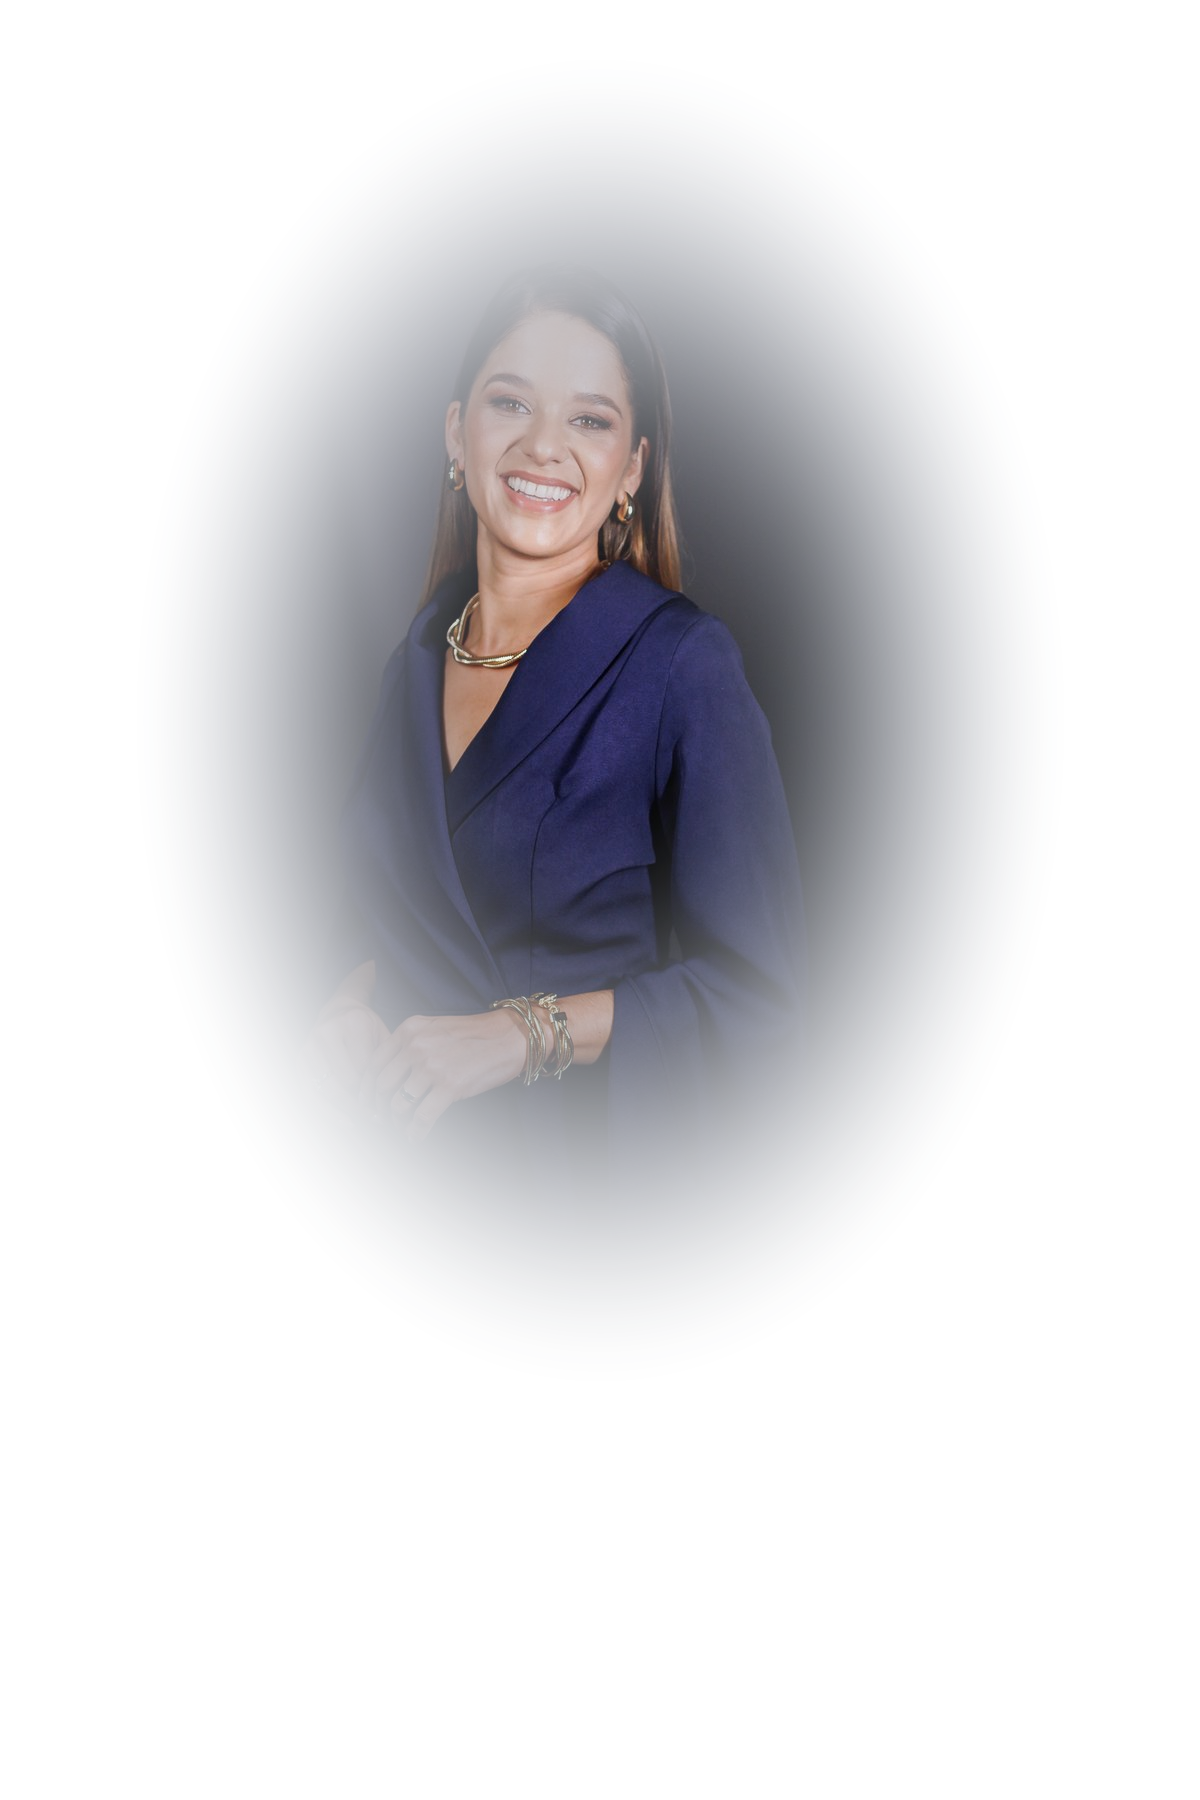
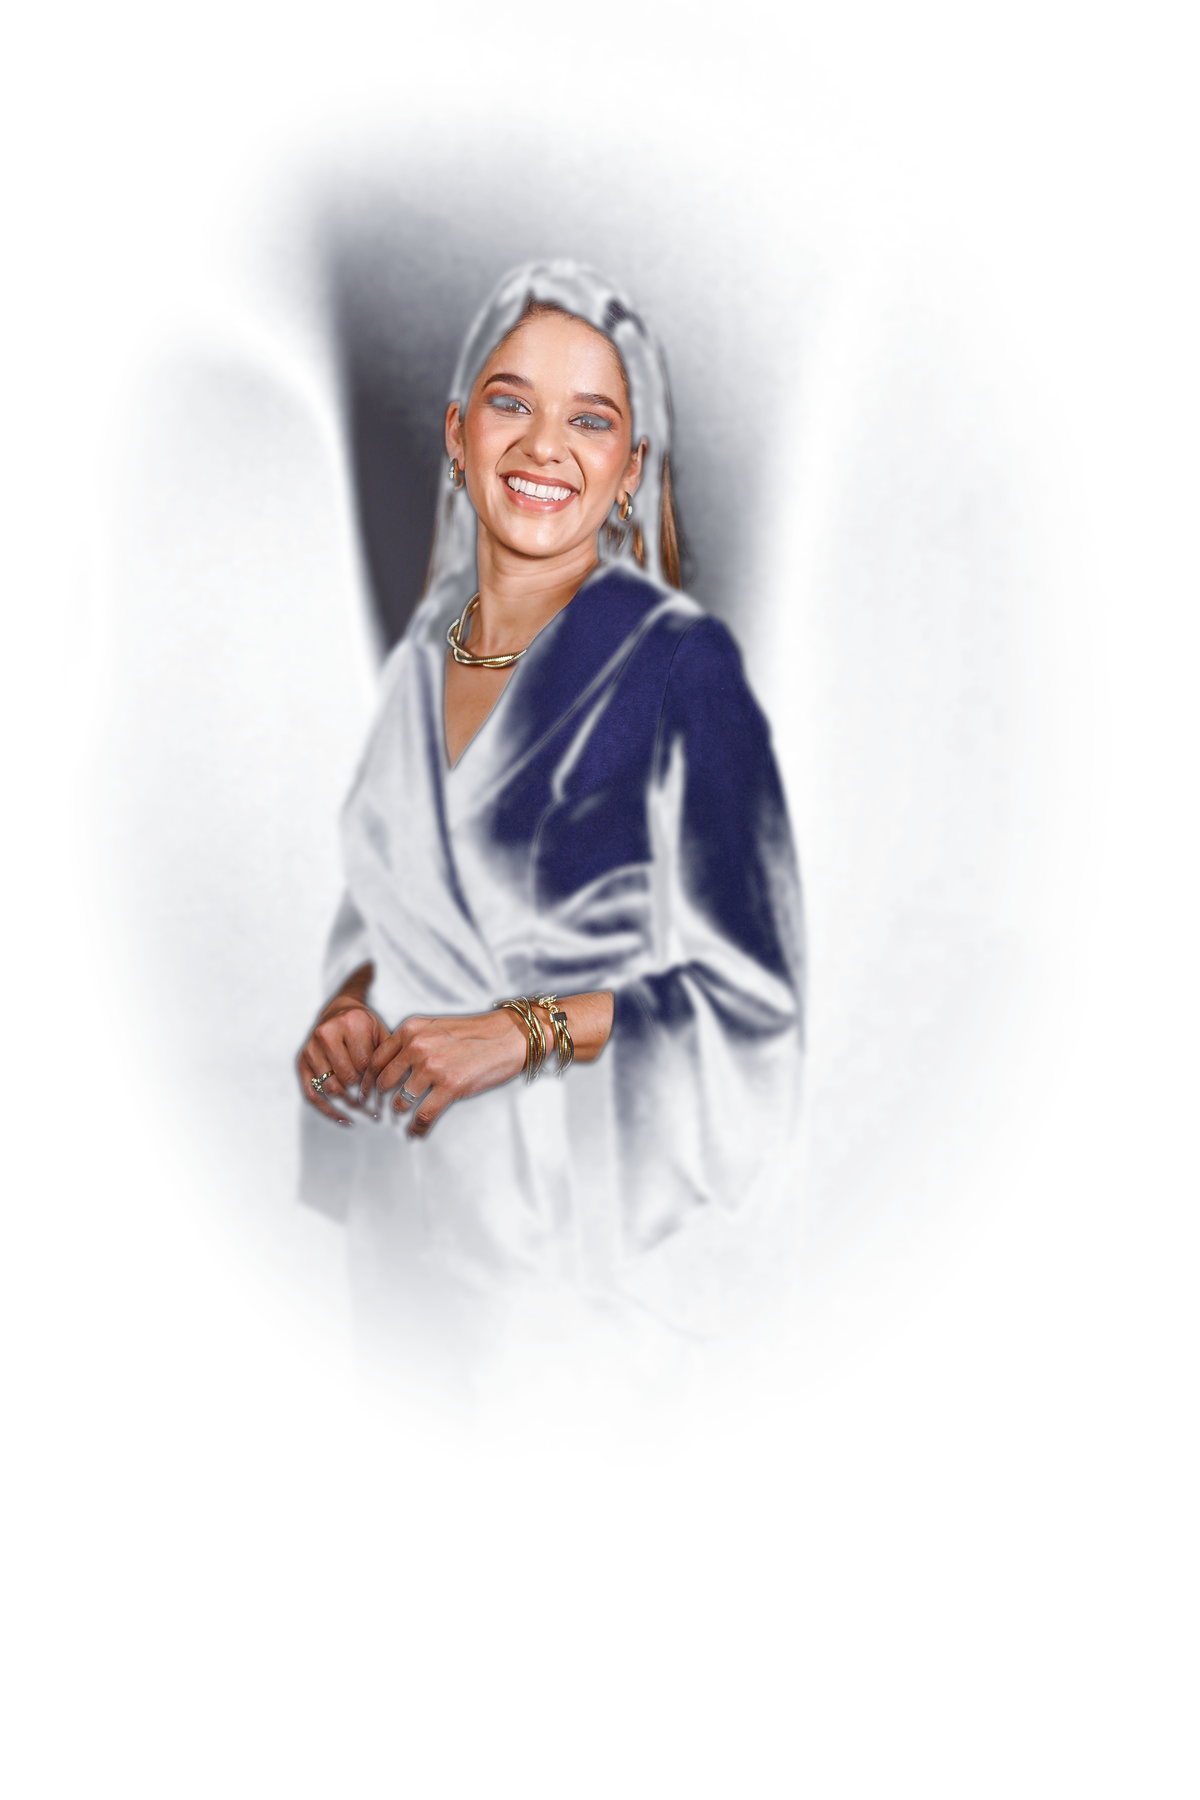
Corrige nitidez do retrato e substitui fundo por textura de seda real
O blend anterior começava a esmaecer quase no centro da elipse
(fade_start=0.08), deixando o rosto e o tronco parcialmente
transparentes/puxados pro navy — lido como "foto desfocada". Agora o
fade só entra na faixa externa (fade_start=0.60+); rosto e tronco
ficam 100% nítidos.

O fundo do estúdio original (preto no hero, parede verde no "sobre")
não desaparecia mais perto da pessoa por causa da própria vinheta de
luz do estúdio — scripts/blend_portrait.py agora ajusta um campo de
cor de fundo (polinômio 2D só com pixels da moldura da foto) e usa
esse campo como referência local, em vez de uma cor de referência
única, pra remover o fundo rente ao contorno real do corpo.

.lp-silk-bg trocou os gradientes CSS lisos por uma textura procedural
de seda (scripts/generate_silk_bg.py, gera static/img/silk-bg.jpg):
dobras diagonais suaves com sombreamento e brilho dourado, em vez de
um degradê sem relevo.

Changed region(s): [[0.185, 0.0933, 0.8325, 0.7467]]

diff --git a/static/css/style.css b/static/css/style.css
@@ -213,19 +213,16 @@ footer a {
   margin-right: -50vw;
 }
 
-/* Fundo "seda escura" — várias camadas de gradiente simulando dobras de
-   tecido com brilho dourado, usado nas duas seções com retrato
-   mesclado (hero e "sobre"). Sem foto de tecido real disponível, então
-   isso é uma aproximação só com CSS — sutil de propósito, pra não
-   competir com o retrato. */
+/* Fundo "seda escura" — textura procedural com dobras e brilho dourado
+   (gerada por scripts/generate_silk_bg.py em static/img/silk-bg.jpg),
+   usada nas duas seções com retrato mesclado (hero e "sobre"). Uma camada
+   fininha de gradiente por cima só pra garantir contraste do texto nas
+   bordas em qualquer viewport. */
 .lp-silk-bg {
   background:
-    radial-gradient(52% 42% at 18% 12%, rgba(245, 216, 134, 0.11) 0%, transparent 62%),
-    radial-gradient(46% 38% at 88% 18%, rgba(189, 151, 80, 0.09) 0%, transparent 65%),
-    radial-gradient(58% 48% at 78% 92%, rgba(245, 216, 134, 0.07) 0%, transparent 60%),
-    radial-gradient(40% 55% at 8% 85%, rgba(189, 151, 80, 0.06) 0%, transparent 62%),
-    repeating-linear-gradient(112deg, rgba(255, 255, 255, 0.018) 0px, rgba(255, 255, 255, 0.018) 1px, transparent 1px, transparent 38px),
-    radial-gradient(140% 120% at 50% 20%, #263049 0%, var(--avie-navy-deep) 65%, #12182a 100%);
+    radial-gradient(120% 90% at 50% -10%, rgba(8, 11, 20, 0.28) 0%, transparent 55%),
+    radial-gradient(100% 80% at 50% 110%, rgba(8, 11, 20, 0.35) 0%, transparent 55%),
+    url("../img/silk-bg.jpg") center center / cover no-repeat;
 }
 
 .lp-hero {

diff --git a/scripts/blend_portrait.py b/scripts/blend_portrait.py
@@ -1,26 +1,32 @@
 """Prepara um retrato para mesclar organicamente no fundo "seda escura"
 das seções .lp-hero/.lp-about (ver .lp-silk-bg em static/css/style.css).
 
-Sem uma foto real de tecido, uma máscara CSS pura deixa uma "auréola"
-visível (o degradê de opacidade revela o cinza do fundo de estúdio da
-foto original por baixo). Aqui a mesclagem é feita no próprio pixel:
-puxamos a cor pra o tom do navy de fundo ANTES de começar a reduzir o
-alpha — assim quando a transparência entra, a cor já é quase idêntica
-ao fundo, sem salto visível.
+Duas etapas combinadas:
 
-Uso: `pip install pillow numpy` (não são dependências do app, só desse
-script), ajustar os parâmetros de cada retrato (centro/raio da elipse)
-e rodar `python scripts/blend_portrait.py` a partir da raiz do projeto
-sempre que uma foto nova entrar no hero ou na seção "sobre".
+1. Recorte por cor: o fundo de estúdio original (preto liso no hero, parede
+   verde no "sobre") é detectado por distância de cor até uma amostra dos
+   cantos da própria foto e vira transparente/navy — isso é o que faz o
+   FUNDO da foto desaparecer rente ao contorno da pessoa, em vez de deixar
+   uma "mancha" escura em volta dela do tamanho de uma elipse genérica.
+2. Vinheta elíptica suave (smoothstep, sem "quina" — o que gera anel visível
+   numa máscara) só nas bordas do enquadramento, pra o retrato "flutuar" e
+   dissolver no topo/base do recorte em vez de terminar num corte reto.
+
+O rosto e o tronco ficam 100% nítidos (alpha=1, cor original) porque estão
+bem distantes, em cor, do fundo de estúdio — só o próprio fundo e a faixa
+externa da vinheta perdem opacidade.
+
+Uso: `pip install pillow numpy`, ajustar os parâmetros por foto e rodar
+`python scripts/blend_portrait.py` a partir da raiz do projeto sempre que
+uma foto nova entrar no hero ou na seção "sobre".
 """
-
-from PIL import Image
+from PIL import Image, ImageFilter
 import numpy as np
 
-# Amostrado direto da página renderizada (.lp-silk-bg), coluna central,
-# do topo ao rodapé da área onde o retrato fica.
-TARGET_TOP = (37, 47, 69)
-TARGET_BOTTOM = (33, 42, 59)
+# Amostrado direto de static/img/silk-bg.jpg (ver generate_silk_bg.py),
+# coluna central, do topo ao rodapé da área onde o retrato fica.
+TARGET_TOP = (49, 60, 87)
+TARGET_BOTTOM = (44, 56, 82)
 
 
 def smoothstep(edge0, edge1, x):
@@ -31,43 +37,88 @@ def smoothstep(edge0, edge1, x):
     return t * t * (3 - 2 * t)
 
 
+def _fit_background_field(arr, border_frac=0.045):
+    """O fundo de estúdio não é uma cor sólida — tem vinheta (mais claro
+    perto do centro, onde a luz principal bate, mais escuro nas bordas).
+    Em vez de comparar cada pixel a UMA cor de referência (o que confunde
+    esse brilho central do próprio fundo com a pessoa), ajusta um campo
+    contínuo (polinômio quadrático em x,y) só com pixels da moldura da
+    foto — sempre fundo puro — e usa esse campo como referência local em
+    cada ponto da imagem."""
+    h, w, _ = arr.shape
+    bh, bw = max(4, int(h * border_frac)), max(4, int(w * border_frac))
+    yy, xx = np.mgrid[0:h, 0:w]
+
+    border = np.zeros((h, w), dtype=bool)
+    border[:bh, :] = True
+    border[-bh:, :] = True
+    border[:, :bw] = True
+    border[:, -bw:] = True
+
+    xs = (xx[border].astype(np.float32) / w)
+    ys = (yy[border].astype(np.float32) / h)
+    A = np.stack([np.ones_like(xs), xs, ys, xs * xs, ys * ys, xs * ys], axis=1)
+    samples = arr[border]  # N x 3
+
+    coeffs, *_ = np.linalg.lstsq(A, samples, rcond=None)  # 6 x 3
+
+    xf = (xx.astype(np.float32) / w).ravel()
+    yf = (yy.astype(np.float32) / h).ravel()
+    Afull = np.stack([np.ones_like(xf), xf, yf, xf * xf, yf * yf, xf * yf], axis=1)
+    field = (Afull @ coeffs).reshape(h, w, 3)
+    return field
+
+
+def background_mask(arr, threshold=42, feather=3.0):
+    """Confiança de 'é fundo de estúdio' por proximidade de cor ao campo de
+    fundo ajustado (ver _fit_background_field, cobre a vinheta). Retorna 0
+    (fundo) .. 1 (sujeito)."""
+    ref_field = _fit_background_field(arr)
+    dist = np.linalg.norm(arr - ref_field, axis=2)
+    fg = np.clip(dist / threshold, 0, 1)
+    fg_img = Image.fromarray((fg * 255).astype(np.uint8), "L")
+    fg_img = fg_img.filter(ImageFilter.GaussianBlur(feather))
+    return np.asarray(fg_img).astype(np.float32) / 255.0
+
+
 def process_portrait(src_path, dst_path, cx_frac, cy_frac, rx_frac, ry_frac,
-                      fade_start=0.10, fade_end=1.15):
+                      fade_start=0.72, fade_end=1.05, bg_threshold=42):
     im = Image.open(src_path).convert("RGB")
     w, h = im.size
     arr = np.array(im).astype(np.float32)
+
+    fg_conf = background_mask(arr, threshold=bg_threshold)
+    fg_conf = fg_conf ** 1.4  # empurra tons intermediários (sombra/transição no pano) pro lado do fundo
 
     yy, xx = np.mgrid[0:h, 0:w]
     cx, cy = w * cx_frac, h * cy_frac
     rx, ry = w * rx_frac, h * ry_frac
     dist = np.sqrt(((xx - cx) / rx) ** 2 + ((yy - cy) / ry) ** 2)
+    vignette = 1 - smoothstep(fade_start, fade_end, dist)
 
-    t = smoothstep(fade_start, fade_end, dist)
+    alpha = fg_conf * vignette
 
     row_t = (yy / h)[..., None]
     target_field = np.array(TARGET_TOP) * (1 - row_t) + np.array(TARGET_BOTTOM) * row_t
-    arr = arr * (1 - t[..., None]) + target_field * t[..., None]
-    alpha = 1 - t
+    a3 = alpha[..., None]
+    out_rgb = arr * a3 + target_field * (1 - a3)
 
-    out = np.dstack([arr, alpha * 255]).astype(np.uint8)
+    out = np.dstack([out_rgb, alpha * 255]).astype(np.uint8)
     Image.fromarray(out, "RGBA").save(dst_path)
     print(f"saved {dst_path} {Image.open(dst_path).size}")
 
 
 if __name__ == "__main__":
-    # rx/ry precisam ser pequenos o bastante pra o fade TERMINAR (alpha
-    # chegar a zero) antes da borda reta do quadro — do contrário fica
-    # opaco até o corte reto e parece um recorte, não um esmaecer.
     process_portrait(
         "static/img/fabiana-hero.jpg",
         "static/img/fabiana-hero-blend.png",
-        cx_frac=0.5, cy_frac=0.40, rx_frac=0.40, ry_frac=0.38,
-        fade_start=0.08, fade_end=1.0,
+        cx_frac=0.5, cy_frac=0.40, rx_frac=0.44, ry_frac=0.42,
+        fade_start=0.72, fade_end=1.05, bg_threshold=60,
     )
 
     process_portrait(
         "static/img/fabiana-sobre.jpg",
         "static/img/fabiana-sobre-blend.png",
-        cx_frac=0.5, cy_frac=0.42, rx_frac=0.40, ry_frac=0.38,
-        fade_start=0.08, fade_end=1.0,
+        cx_frac=0.5, cy_frac=0.42, rx_frac=0.44, ry_frac=0.42,
+        fade_start=0.72, fade_end=1.05, bg_threshold=140,
     )

diff --git a/scripts/generate_silk_bg.py b/scripts/generate_silk_bg.py
@@ -1,0 +1,102 @@
+"""Gera uma textura procedural de "seda escura" com dobras suaves e brilho
+dourado para o fundo de .lp-hero/.lp-about — substitui o degradê CSS plano
+por uma imagem com relevo real: faixas diagonais largas (dobras), variação
+orgânica de brilho e grão fino.
+
+O ruído de larga escala é gerado numa grade baixa-resolução e reamostrado
+por interpolação bicúbica (em vez de blur com raio grande): blur grande no
+PIL vira uma aproximação por "box blur" que deixa degraus/contornos visíveis
+em vez de uma superfície contínua — reamostragem bicúbica não tem esse
+problema.
+
+Uso: `pip install pillow numpy`, a partir da raiz do projeto:
+`python scripts/generate_silk_bg.py`
+"""
+from PIL import Image, ImageFilter
+import numpy as np
+
+W, H = 2400, 1500
+
+NAVY_DEEP = np.array([16, 21, 34])
+NAVY_MID = np.array([36, 46, 71])
+NAVY_LIT = np.array([66, 79, 111])
+GOLD_SHEEN = np.array([160, 132, 80])
+
+
+def make_noise(w, h, scale, seed):
+    """Ruído suave em larga escala: grade de baixa resolução (~w/scale
+    células) reamostrada por bicúbica. Normalizado pra média 0 / desvio 1."""
+    rng = np.random.default_rng(seed)
+    small_w = max(3, round(w / scale))
+    small_h = max(3, round(h / scale))
+    noise = rng.random((small_h, small_w)).astype(np.float32)
+    im = Image.fromarray((noise * 255).astype(np.uint8), "L")
+    im = im.resize((w, h), Image.BILINEAR)
+    arr = np.asarray(im).astype(np.float32) / 255.0
+    arr -= arr.mean()
+    arr /= arr.std() + 1e-6
+    return arr
+
+
+def main():
+    yy, xx = np.mgrid[0:H, 0:W].astype(np.float32)
+    u, v = xx / W, yy / H
+
+    angle = np.deg2rad(24)
+    rot = u * np.cos(angle) + v * np.sin(angle)
+    # o próprio eixo das ondas é distorcido por um campo suave e grande,
+    # pra dobra não ficar perfeitamente reta/repetitiva
+    warp = make_noise(W, H, 500, seed=31) * 0.14
+    rot = rot + warp
+
+    folds = (
+        0.40 * np.sin(rot * 4.2 * np.pi)
+        + 0.15 * np.sin(rot * 9.5 * np.pi + 1.1)
+        + 0.06 * np.sin(rot * 19.0 * np.pi + 2.4)
+    )
+    folds += 0.22 * make_noise(W, H, 420, seed=7)
+    folds += 0.08 * make_noise(W, H, 90, seed=11)
+
+    tone = folds
+    tone -= tone.min()
+    tone /= tone.max()
+    tone = tone ** 1.1
+
+    cx, cy = 0.5, 0.28
+    dist = np.sqrt(((u - cx) / 0.8) ** 2 + ((v - cy) / 0.95) ** 2)
+    vignette = np.clip(1 - 0.22 * dist ** 2, 0.68, 1.0)
+    tone *= vignette
+
+    t = tone[..., None]
+    low_mid = np.clip(t / 0.5, 0, 1)
+    mid_hi = np.clip((t - 0.5) / 0.5, 0, 1)
+    color = NAVY_DEEP * (1 - low_mid) + NAVY_MID * low_mid
+    color = color * (1 - mid_hi) + NAVY_LIT * mid_hi
+
+    # brilho dourado: manchas suaves e fixas (não derivadas do ruído das
+    # dobras, que gerava respingos dourados soltos em vez de um sheen
+    # coerente), nos mesmos pontos dos radial-gradients dourados usados em
+    # .lp-silk-bg no CSS — mantém a identidade visual consistente.
+    def soft_spot(cx_, cy_, rx_, ry_):
+        d = np.sqrt(((u - cx_) / rx_) ** 2 + ((v - cy_) / ry_) ** 2)
+        return np.clip(1 - d, 0, 1) ** 2
+
+    gold_mix = (
+        0.22 * soft_spot(0.16, 0.10, 0.5, 0.42)
+        + 0.16 * soft_spot(0.90, 0.16, 0.42, 0.36)
+        + 0.12 * soft_spot(0.78, 0.94, 0.55, 0.44)
+    )[..., None]
+    gold_mix = np.clip(gold_mix, 0, 0.42) * (0.35 + 0.65 * tone[..., None])
+    color = color * (1 - gold_mix) + GOLD_SHEEN * gold_mix
+
+    rng = np.random.default_rng(23)
+    grain = (rng.random((H, W)).astype(np.float32) - 0.5)[..., None] * 7.0
+    color = color + grain
+
+    color = np.clip(color, 0, 255).astype(np.uint8)
+    Image.fromarray(color, "RGB").save("static/img/silk-bg.jpg", quality=92)
+    print("saved static/img/silk-bg.jpg", (W, H))
+
+
+if __name__ == "__main__":
+    main()
